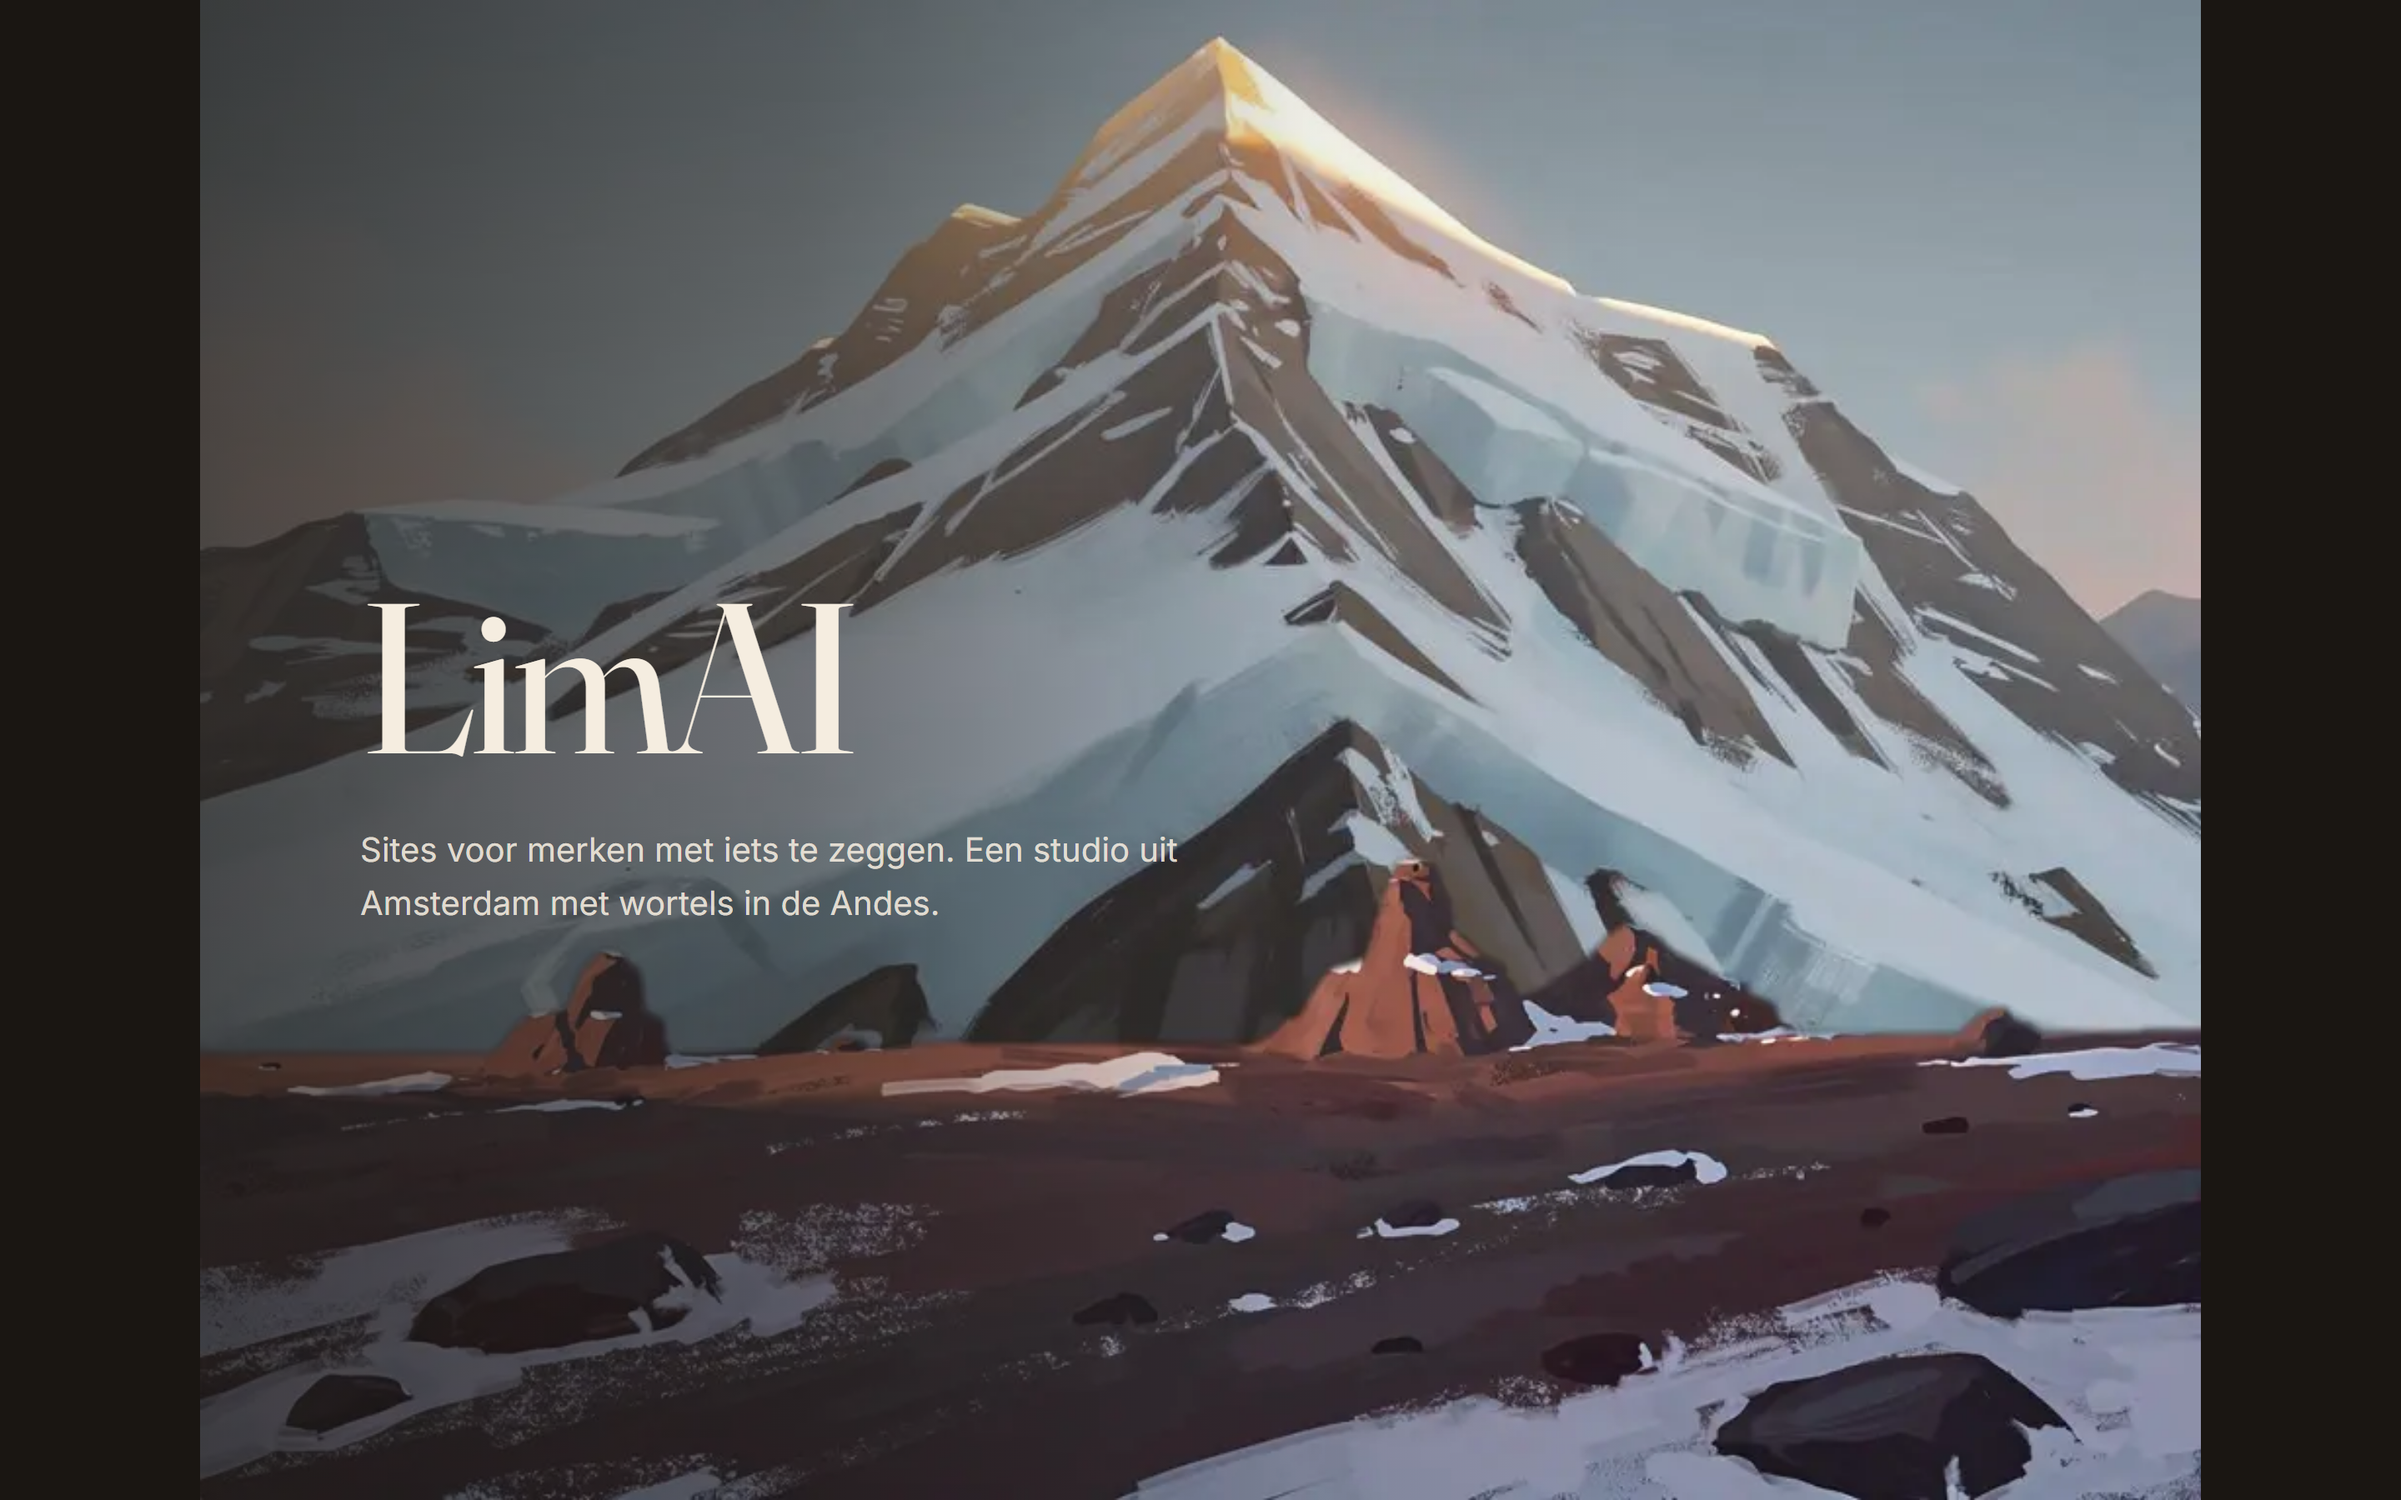
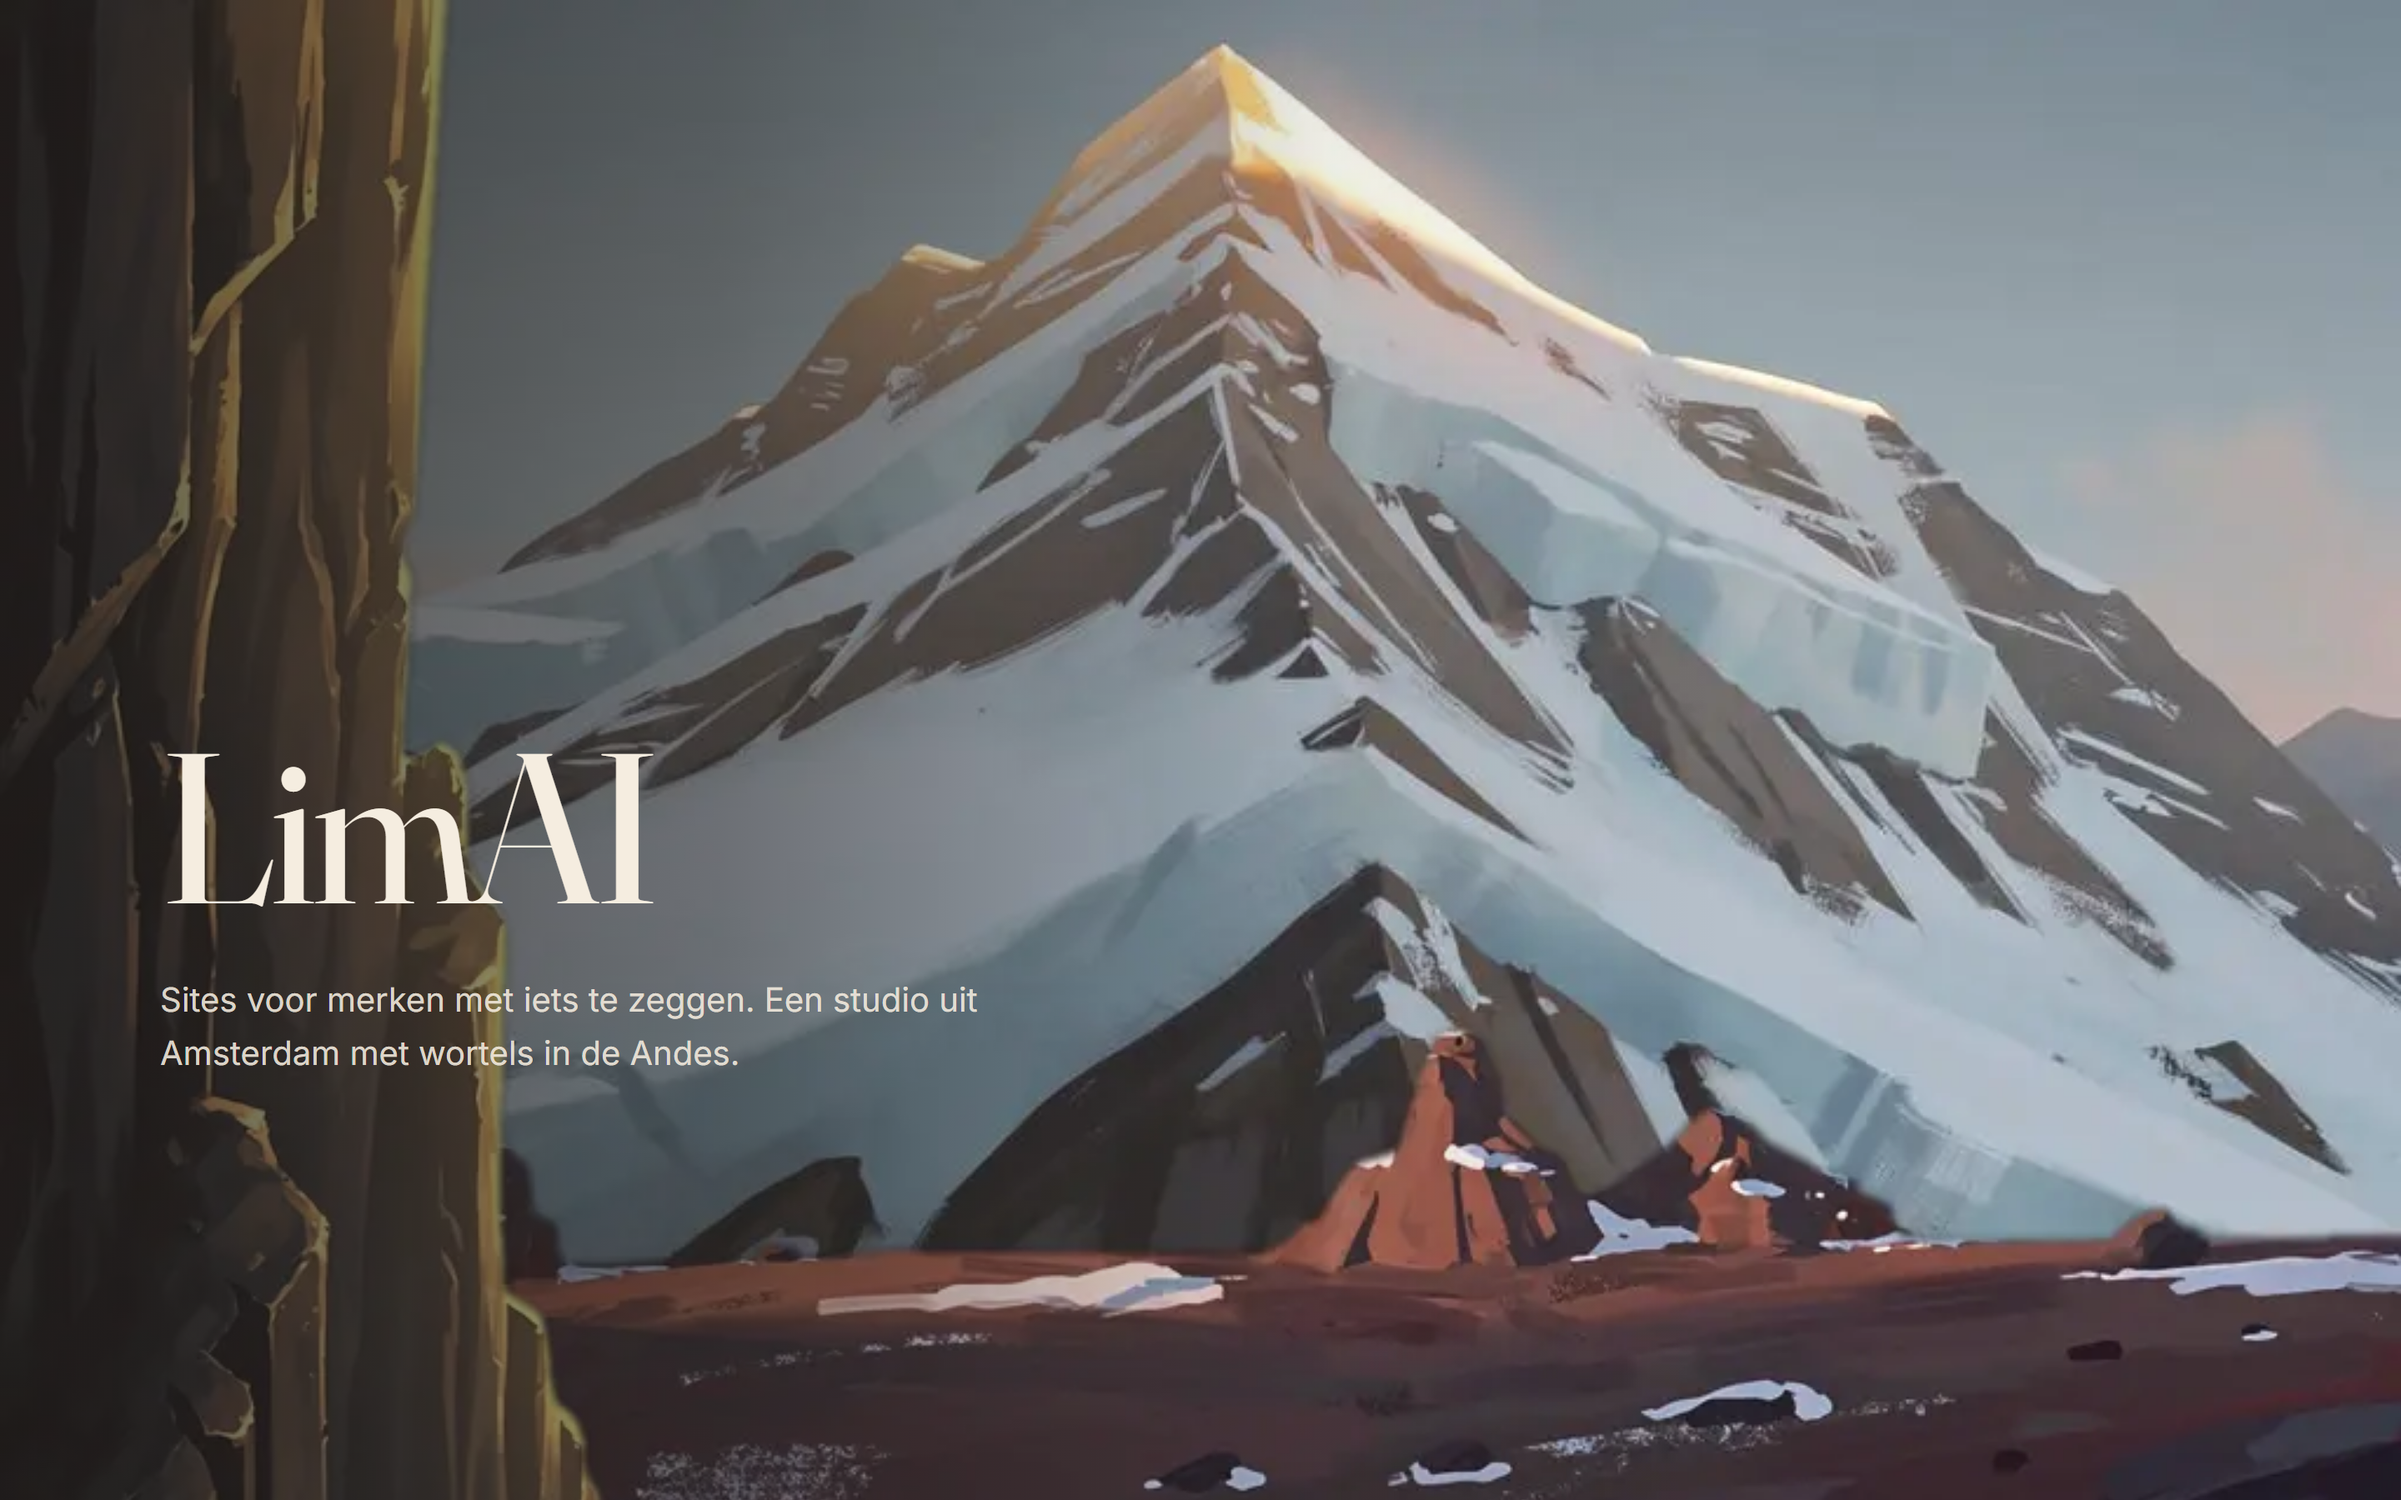
Hero v2: full-width painting ipv pillarbox, bottom-crop op wide viewports acceptabel per user instructie
Vervangt de max-w 4:3 cap + mx-auto pillarbox-strategie met een full-width aspect-ratio section. Painting strekt nu viewport-edge tot viewport-edge, geen noche-andina banden meer links/rechts. Op wide viewports (aspect > 4:3) wordt de section taller dan de viewport, user ziet de top-portie en scrollt eventueel voor de bottom (foreground figuren). Framing-rock en bergpiek zitten beiden in de top 75% van het 1024x768 canvas — altijd zichtbaar in de fold.

Sectie-classes: `relative w-full aspect-[1024/768] min-h-dvh overflow-hidden`.
- w-full: sectie = 100vw, geen width-cap meer
- aspect-[1024/768]: section.height = 75vw (exact painting-ratio, 4:3)
- min-h-dvh: mobile fallback — op portrait waar 75vw < 100dvh, min-h wint en section = viewport-hoogte (anders verdween de hero onder 1 scherm)
- overflow-hidden: clipt image-overflow indien object-cover zou overscalen

Next/image object-cover ongewijzigd. Op wide viewports matcht section-aspect (4:3) exact met image-aspect (4:3), dus object-cover produceert geen crop — image vult section 1:1. Viewport-scroll crop is browser-native, geen CSS. Geen object-position override nodig (zou nul effect hebben waar er geen crop is).
[…]

diff --git a/app/components/BiomeSection.tsx b/app/components/BiomeSection.tsx
@@ -14,7 +14,7 @@ export function BiomeSection({
   tagline,
 }: BiomeSectionProps) {
   return (
-    <section className="relative h-dvh w-full md:max-w-[calc(100dvh*4/3)] md:mx-auto overflow-hidden bg-noche-andina">
+    <section className="relative w-full aspect-[1024/768] min-h-dvh overflow-hidden">
       <Image
         src={image}
         alt={imageAlt}
